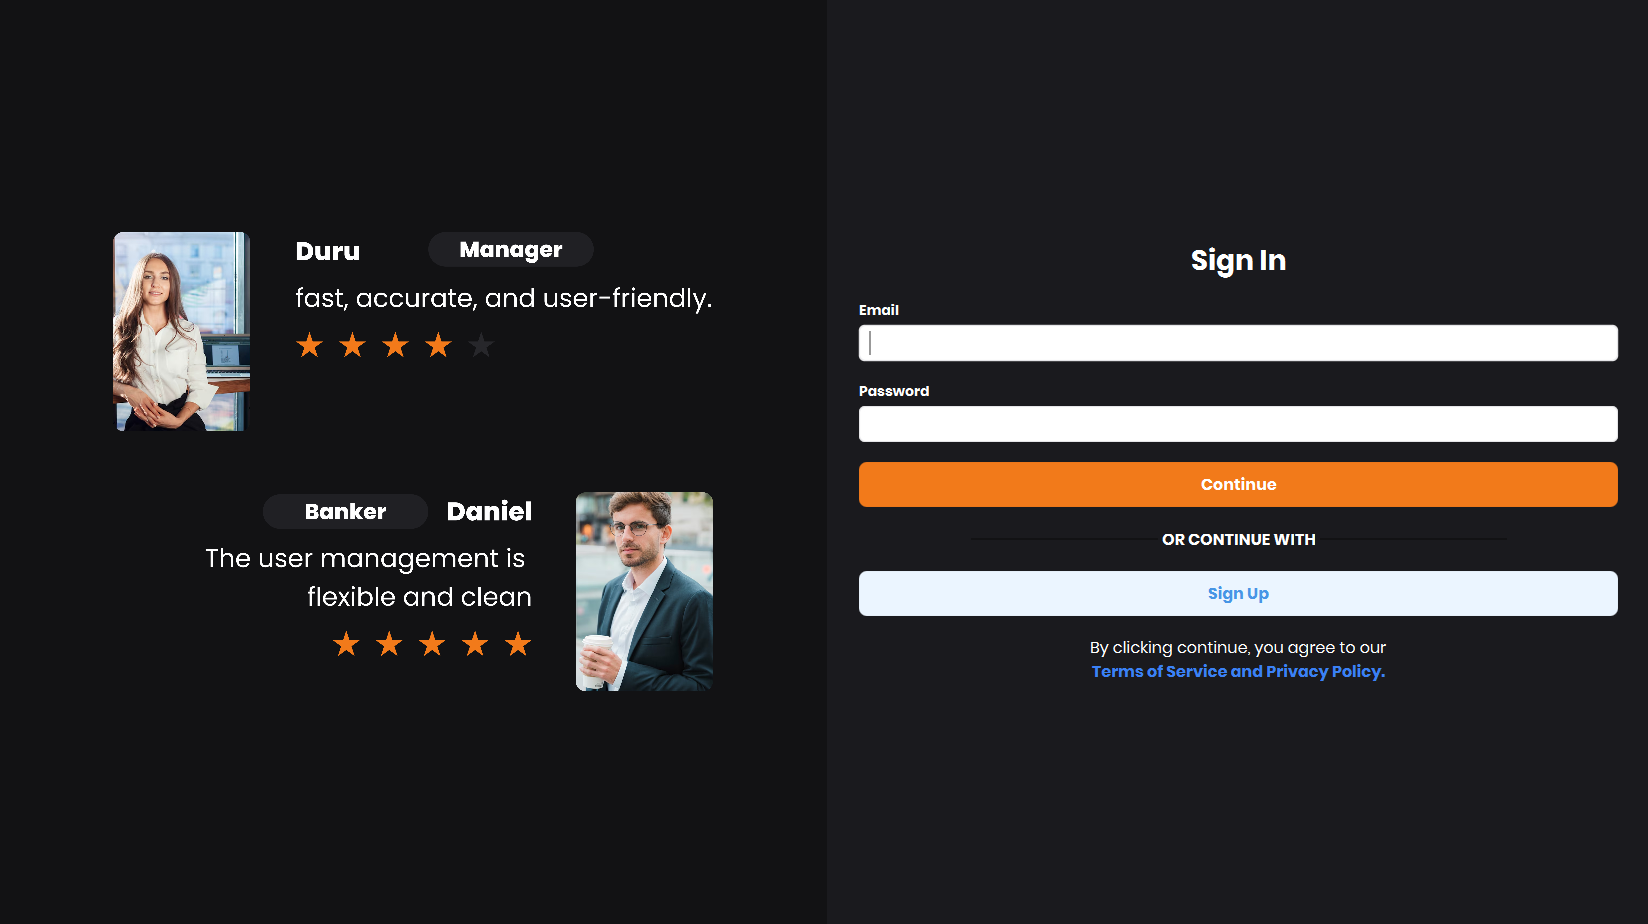
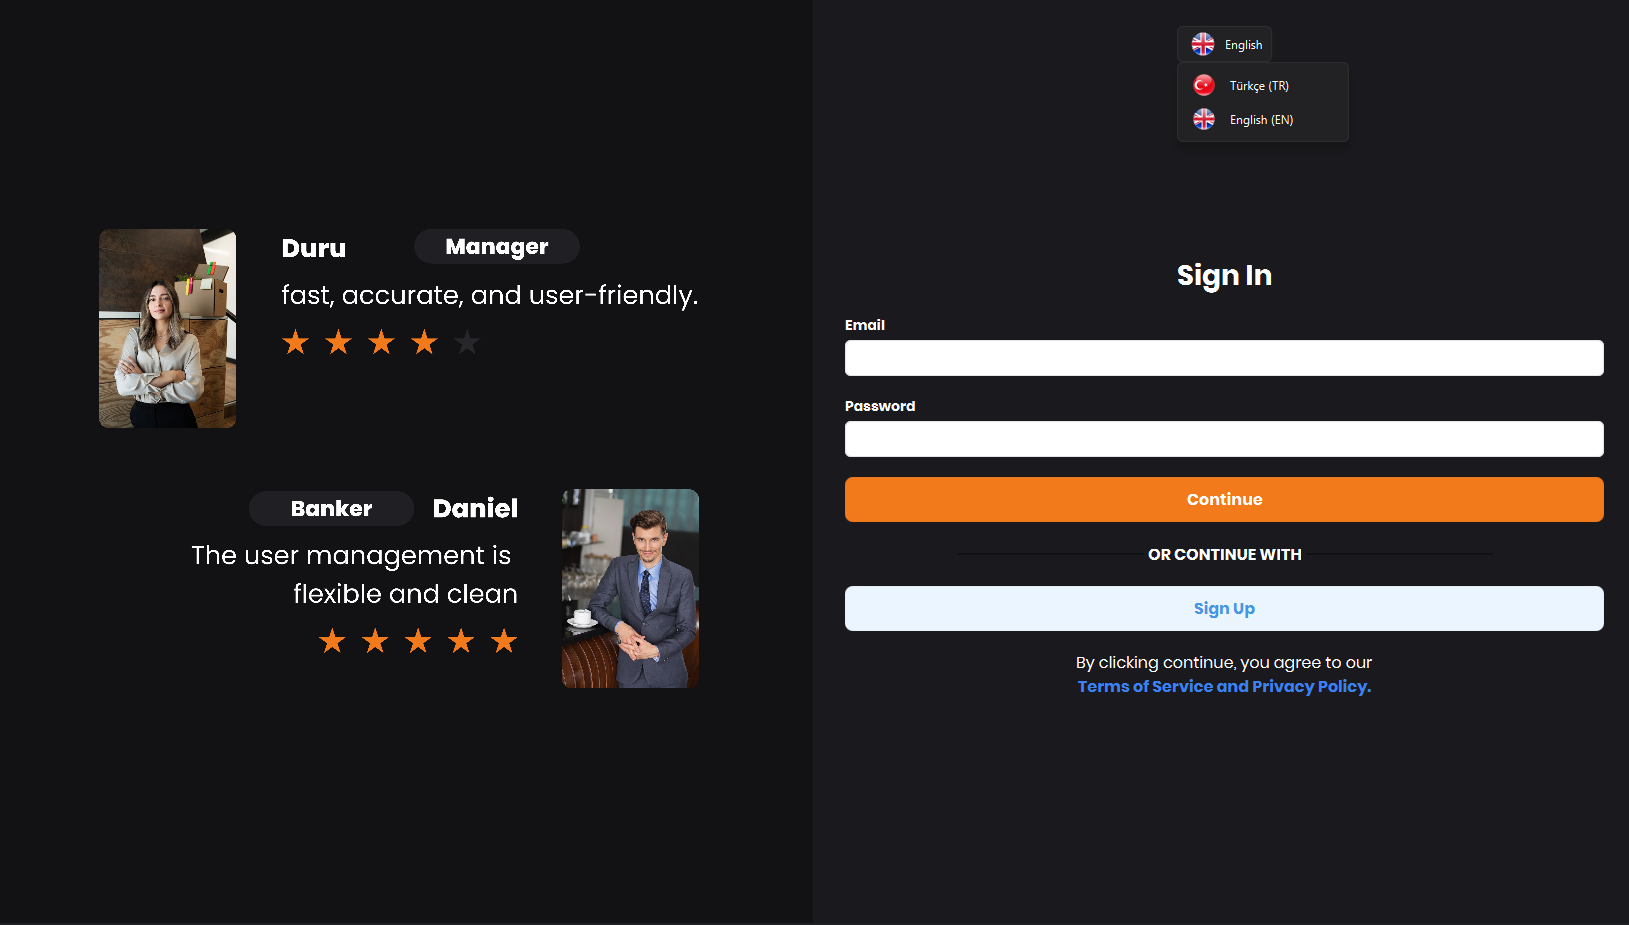
rev: md file

diff --git a/ReadMe.md b/ReadMe.md
@@ -42,10 +42,9 @@ The goal is to develop a desktop application based on JavaFX, which includes fun
 
 # UI Introduction
 
-## Auth Pages
-![img_14.png](img_14.png)
-![img_13.png](img_13.png)
-![img_11.png](img_11.png)
+## Authentication Page
+![img_9.png](img_9.png)
+![img_10.png](img_10.png)
 ## Home Page
 1. ![img_3.png](img_3.png)
 
